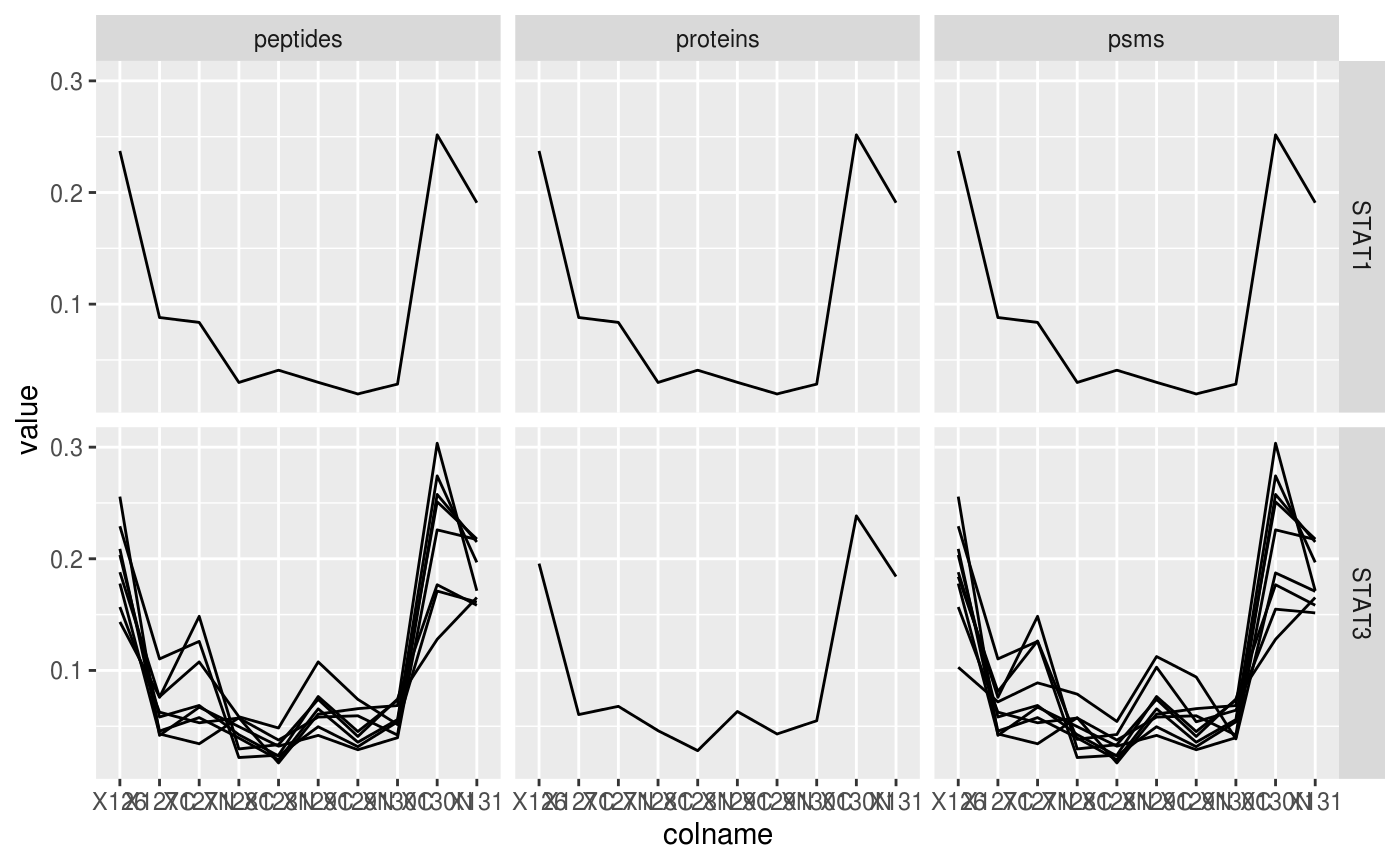
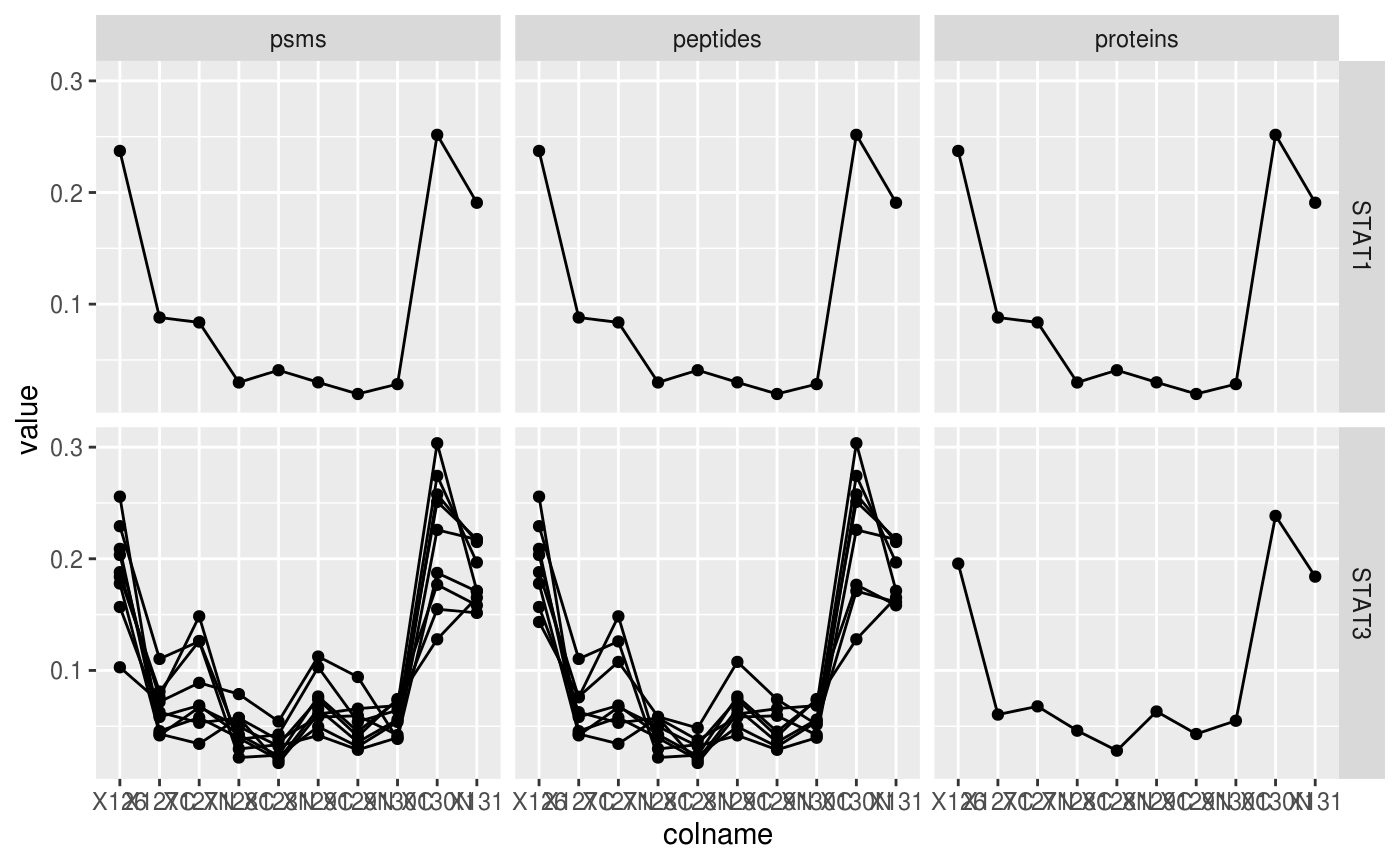
Deploy rformassspectrometry/Features to github.com/rformassspectrometry/Features.git:gh-pages

diff --git a/articles/Features.html b/articles/Features.html
@@ -249,13 +249,16 @@ Conceptual representation of a <code>Features</code> object and the aggregative 
 ##  [3] psms: SummarizedExperiment with 9 rows and 10 columns</code></pre>
 <p>We can easily visualise this new <em>Features</em> object using <code>ggplot2</code> once converted into a <code>data.frame</code>.</p>
 <div class="sourceCode" id="cb26"><pre class="sourceCode r"><code class="sourceCode r"><a class="sourceLine" id="cb26-1" data-line-number="1">stat3_df &lt;-<span class="st"> </span><span class="kw"><a href="https://www.rdocumentation.org/packages/base/topics/data.frame">data.frame</a></span>(<span class="kw">longFormat</span>(stat3))</a>
-<a class="sourceLine" id="cb26-2" data-line-number="2"><span class="kw"><a href="https://www.rdocumentation.org/packages/base/topics/library">library</a></span>(<span class="st">"ggplot2"</span>)</a>
-<a class="sourceLine" id="cb26-3" data-line-number="3"><span class="kw"><a href="https://ggplot2.tidyverse.org/reference/ggplot.html">ggplot</a></span>(<span class="dt">data =</span> stat3_df,</a>
-<a class="sourceLine" id="cb26-4" data-line-number="4">       <span class="kw"><a href="https://ggplot2.tidyverse.org/reference/aes.html">aes</a></span>(<span class="dt">x =</span> colname,</a>
-<a class="sourceLine" id="cb26-5" data-line-number="5">           <span class="dt">y =</span> value,</a>
-<a class="sourceLine" id="cb26-6" data-line-number="6">           <span class="dt">group =</span> rowname)) <span class="op">+</span></a>
-<a class="sourceLine" id="cb26-7" data-line-number="7"><span class="st">    </span><span class="kw"><a href="https://ggplot2.tidyverse.org/reference/geom_path.html">geom_line</a></span>() <span class="op">+</span></a>
-<a class="sourceLine" id="cb26-8" data-line-number="8"><span class="st">    </span><span class="kw"><a href="https://ggplot2.tidyverse.org/reference/facet_grid.html">facet_grid</a></span>(<span class="op">~</span><span class="st"> </span>assay)</a></code></pre></div>
+<a class="sourceLine" id="cb26-2" data-line-number="2">stat3_df<span class="op">$</span>assay &lt;-<span class="st"> </span><span class="kw"><a href="https://www.rdocumentation.org/packages/base/topics/factor">factor</a></span>(stat3_df<span class="op">$</span>assay,</a>
+<a class="sourceLine" id="cb26-3" data-line-number="3">                        <span class="dt">levels =</span> <span class="kw"><a href="https://www.rdocumentation.org/packages/base/topics/c">c</a></span>(<span class="st">"psms"</span>, <span class="st">"peptides"</span>, <span class="st">"proteins"</span>))</a>
+<a class="sourceLine" id="cb26-4" data-line-number="4"></a>
+<a class="sourceLine" id="cb26-5" data-line-number="5"><span class="kw"><a href="https://www.rdocumentation.org/packages/base/topics/library">library</a></span>(<span class="st">"ggplot2"</span>)</a>
+<a class="sourceLine" id="cb26-6" data-line-number="6"><span class="kw"><a href="https://ggplot2.tidyverse.org/reference/ggplot.html">ggplot</a></span>(<span class="dt">data =</span> stat3_df,</a>
+<a class="sourceLine" id="cb26-7" data-line-number="7">       <span class="kw"><a href="https://ggplot2.tidyverse.org/reference/aes.html">aes</a></span>(<span class="dt">x =</span> colname,</a>
+<a class="sourceLine" id="cb26-8" data-line-number="8">           <span class="dt">y =</span> value,</a>
+<a class="sourceLine" id="cb26-9" data-line-number="9">           <span class="dt">group =</span> rowname)) <span class="op">+</span></a>
+<a class="sourceLine" id="cb26-10" data-line-number="10"><span class="st">    </span><span class="kw"><a href="https://ggplot2.tidyverse.org/reference/geom_path.html">geom_line</a></span>() <span class="op">+</span><span class="st"> </span><span class="kw"><a href="https://ggplot2.tidyverse.org/reference/geom_point.html">geom_point</a></span>() <span class="op">+</span><span class="st"> </span></a>
+<a class="sourceLine" id="cb26-11" data-line-number="11"><span class="st">    </span><span class="kw"><a href="https://ggplot2.tidyverse.org/reference/facet_grid.html">facet_grid</a></span>(<span class="op">~</span><span class="st"> </span>assay)</a></code></pre></div>
 <p><img src="Features_files/figure-html/plotstat3-1.png" width="700"></p>
 <p>Below we repeat the same operation for the Signal transducer and activator of transcription 1 (STAT1) and 3 (STAT3) accession numbers, namely P42227-2 and P42225. We obtain a new <code>Features</code> instance containing 2 proteins, 9 peptides and 10 PSMS. From this, we can readily conclude that STAT1 was identified by a single PSM/peptide.</p>
 <div class="sourceCode" id="cb27"><pre class="sourceCode r"><code class="sourceCode r"><a class="sourceLine" id="cb27-1" data-line-number="1">stat &lt;-<span class="st"> </span>hl[<span class="kw"><a href="https://www.rdocumentation.org/packages/base/topics/c">c</a></span>(<span class="st">"P42227-2"</span>, <span class="st">"P42225"</span>), , ]</a>
@@ -268,12 +271,15 @@ Conceptual representation of a <code>Features</code> object and the aggregative 
 <div class="sourceCode" id="cb29"><pre class="sourceCode r"><code class="sourceCode r"><a class="sourceLine" id="cb29-1" data-line-number="1">stat_df &lt;-<span class="st"> </span><span class="kw"><a href="https://www.rdocumentation.org/packages/base/topics/data.frame">data.frame</a></span>(<span class="kw">longFormat</span>(stat))</a>
 <a class="sourceLine" id="cb29-2" data-line-number="2">stat_df<span class="op">$</span>stat3 &lt;-<span class="st"> </span><span class="kw"><a href="https://www.rdocumentation.org/packages/base/topics/ifelse">ifelse</a></span>(stat_df<span class="op">$</span>rowname <span class="op">%in%</span><span class="st"> </span>stat3_df<span class="op">$</span>rowname,</a>
 <a class="sourceLine" id="cb29-3" data-line-number="3">                        <span class="st">"STAT3"</span>, <span class="st">"STAT1"</span>)</a>
-<a class="sourceLine" id="cb29-4" data-line-number="4"><span class="kw"><a href="https://ggplot2.tidyverse.org/reference/ggplot.html">ggplot</a></span>(<span class="dt">data =</span> stat_df,</a>
-<a class="sourceLine" id="cb29-5" data-line-number="5">       <span class="kw"><a href="https://ggplot2.tidyverse.org/reference/aes.html">aes</a></span>(<span class="dt">x =</span> colname,</a>
-<a class="sourceLine" id="cb29-6" data-line-number="6">           <span class="dt">y =</span> value,</a>
-<a class="sourceLine" id="cb29-7" data-line-number="7">           <span class="dt">group =</span> rowname)) <span class="op">+</span></a>
-<a class="sourceLine" id="cb29-8" data-line-number="8"><span class="st">    </span><span class="kw"><a href="https://ggplot2.tidyverse.org/reference/geom_path.html">geom_line</a></span>() <span class="op">+</span></a>
-<a class="sourceLine" id="cb29-9" data-line-number="9"><span class="st">    </span><span class="kw"><a href="https://ggplot2.tidyverse.org/reference/facet_grid.html">facet_grid</a></span>(stat3 <span class="op">~</span><span class="st"> </span>assay)</a></code></pre></div>
+<a class="sourceLine" id="cb29-4" data-line-number="4">stat_df<span class="op">$</span>assay &lt;-<span class="st"> </span><span class="kw"><a href="https://www.rdocumentation.org/packages/base/topics/factor">factor</a></span>(stat_df<span class="op">$</span>assay,</a>
+<a class="sourceLine" id="cb29-5" data-line-number="5">                        <span class="dt">levels =</span> <span class="kw"><a href="https://www.rdocumentation.org/packages/base/topics/c">c</a></span>(<span class="st">"psms"</span>, <span class="st">"peptides"</span>, <span class="st">"proteins"</span>))</a>
+<a class="sourceLine" id="cb29-6" data-line-number="6"></a>
+<a class="sourceLine" id="cb29-7" data-line-number="7"><span class="kw"><a href="https://ggplot2.tidyverse.org/reference/ggplot.html">ggplot</a></span>(<span class="dt">data =</span> stat_df,</a>
+<a class="sourceLine" id="cb29-8" data-line-number="8">       <span class="kw"><a href="https://ggplot2.tidyverse.org/reference/aes.html">aes</a></span>(<span class="dt">x =</span> colname,</a>
+<a class="sourceLine" id="cb29-9" data-line-number="9">           <span class="dt">y =</span> value,</a>
+<a class="sourceLine" id="cb29-10" data-line-number="10">           <span class="dt">group =</span> rowname)) <span class="op">+</span></a>
+<a class="sourceLine" id="cb29-11" data-line-number="11"><span class="st">    </span><span class="kw"><a href="https://ggplot2.tidyverse.org/reference/geom_path.html">geom_line</a></span>() <span class="op">+</span><span class="st"> </span><span class="kw"><a href="https://ggplot2.tidyverse.org/reference/geom_point.html">geom_point</a></span>() <span class="op">+</span><span class="st"> </span></a>
+<a class="sourceLine" id="cb29-12" data-line-number="12"><span class="st">    </span><span class="kw"><a href="https://ggplot2.tidyverse.org/reference/facet_grid.html">facet_grid</a></span>(stat3 <span class="op">~</span><span class="st"> </span>assay)</a></code></pre></div>
 <p><img src="Features_files/figure-html/plotstat-1.png" width="700"></p>
 <p>The subsetting by feature names is also available as a call to the <code>subsetByFeature</code> function, for use with the pipe operator.</p>
 <div class="sourceCode" id="cb30"><pre class="sourceCode r"><code class="sourceCode r"><a class="sourceLine" id="cb30-1" data-line-number="1"><span class="kw"><a href="https://www.rdocumentation.org/packages/base/topics/library">library</a></span>(magrittr)</a>
@@ -364,7 +370,7 @@ Conceptual representation of a <code>Features</code> object and the aggregative 
 <div id="session-information" class="section level1 unnumbered">
 <h1 class="hasAnchor">
 <a href="#session-information" class="anchor"></a>Session information</h1>
-<pre><code>## R version 3.6.0 (2017-01-27)
+<pre><code>## R version 3.6.1 (2017-01-27)
 ## Platform: x86_64-pc-linux-gnu (64-bit)
 ## Running under: Ubuntu 14.04.5 LTS
 ## 
@@ -407,13 +413,13 @@ Conceptual representation of a <code>Features</code> object and the aggregative 
 ## [28] backports_1.1.4        scales_1.0.0           BiocManager_1.30.4    
 ## [31] desc_1.2.0             XVector_0.25.0         fs_1.3.1              
 ## [34] digest_0.6.20          stringi_1.4.3          dplyr_0.8.3           
-## [37] bookdown_0.12          rprojroot_1.3-2        grid_3.6.0            
-## [40] tools_3.6.0            bitops_1.0-6           RCurl_1.95-4.12       
+## [37] bookdown_0.12          rprojroot_1.3-2        grid_3.6.1            
+## [40] tools_3.6.1            bitops_1.0-6           RCurl_1.95-4.12       
 ## [43] lazyeval_0.2.2         tibble_2.1.3           pkgconfig_2.0.2       
 ## [46] crayon_1.3.4           MASS_7.3-51.4          Matrix_1.2-17         
 ## [49] xml2_1.2.0             assertthat_0.2.1       rmarkdown_1.14        
 ## [52] roxygen2_6.1.1         AnnotationFilter_1.9.0 R6_2.4.0              
-## [55] compiler_3.6.0</code></pre>
+## [55] compiler_3.6.1</code></pre>
 </div>
 <div id="references" class="section level1 unnumbered">
 <h1 class="hasAnchor">
